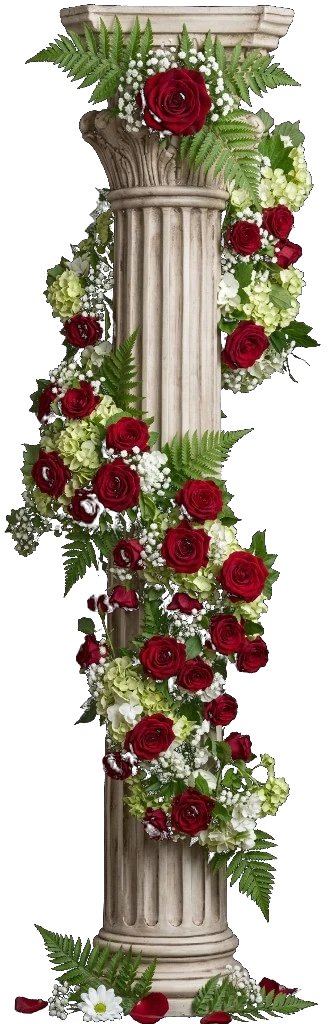
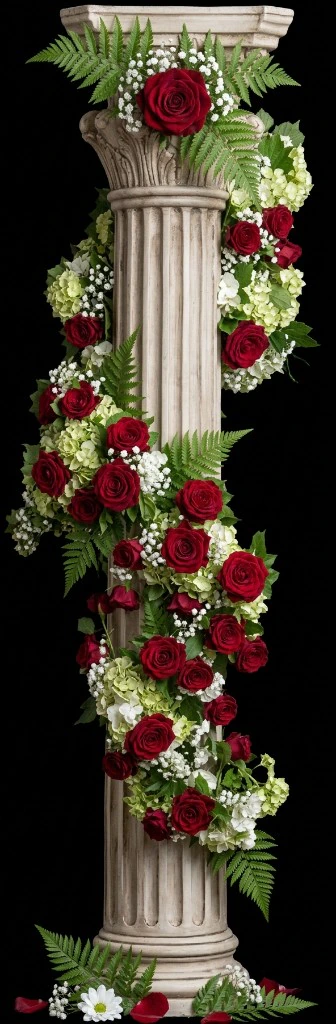
Add the closing dua scene and serve photos as smaller lossless-looking WebP.

diff --git a/src/components/envelope-experience.tsx b/src/components/envelope-experience.tsx
@@ -85,6 +85,8 @@ export function EnvelopeExperience() {
   const section4CopyRef = useRef<HTMLDivElement>(null);
   const leftSideRef = useRef<HTMLDivElement>(null);
   const rightSideRef = useRef<HTMLDivElement>(null);
+  const section5Ref = useRef<HTMLElement>(null);
+  const section5CopyRef = useRef<HTMLDivElement>(null);
   const openedRef = useRef(false);
   const [canScroll, setCanScroll] = useState(false);
 
@@ -280,6 +282,33 @@ export function EnvelopeExperience() {
           duration: 0.9,
           delay: 0.35,
           ease: "back.out(1.6)",
+        });
+        observer.disconnect();
+      },
+      { threshold: 0.3 },
+    );
+
+    observer.observe(section);
+    return () => observer.disconnect();
+  }, []);
+
+  useEffect(() => {
+    const section = section5Ref.current;
+    const copy = section5CopyRef.current;
+    if (!section || !copy) return;
+
+    const lines = copy.querySelectorAll("[data-copy]");
+    gsap.set(lines, { opacity: 0, y: 20 });
+
+    const observer = new IntersectionObserver(
+      ([entry]) => {
+        if (!entry.isIntersecting) return;
+        gsap.to(lines, {
+          opacity: 1,
+          y: 0,
+          duration: 1,
+          stagger: 0.18,
+          ease: "power2.out",
         });
         observer.disconnect();
       },
@@ -504,7 +533,7 @@ export function EnvelopeExperience() {
         className="relative mx-auto h-screen w-full max-w-md overflow-hidden"
       >
         <img
-          src="/scene-three-bg.jpg"
+          src="/scene-three-bg.webp"
           alt=""
           className="absolute inset-0 h-full w-full object-cover"
         />
@@ -547,7 +576,7 @@ export function EnvelopeExperience() {
         className="relative mx-auto h-screen w-full max-w-md overflow-hidden"
       >
         <img
-          src="/scene-two-bg.jpg"
+          src="/scene-two-bg.webp"
           alt=""
           className="absolute inset-0 h-full w-full object-cover"
         />
@@ -559,7 +588,7 @@ export function EnvelopeExperience() {
         />
         <div
           ref={leftSideRef}
-          className="pointer-events-none absolute inset-y-0 -left-16 z-20 h-full w-[42%]"
+          className="pointer-events-none absolute inset-y-0 -left-28 z-20 h-full"
         >
           <img
             src="/forth-sides.webp"
@@ -569,7 +598,7 @@ export function EnvelopeExperience() {
         </div>
         <div
           ref={rightSideRef}
-          className="pointer-events-none absolute inset-y-0 -right-16 z-20 h-full w-[42%]"
+          className="pointer-events-none absolute inset-y-0 -right-28 z-20 h-full"
         >
           <img
             src="/forth-sides.webp"
@@ -597,8 +626,8 @@ export function EnvelopeExperience() {
               >
                 In Sha Allah
               </h2>
-              <div className="mx-auto mt-5 flex w-fit flex-col gap-3">
-                <div data-copy className="flex items-start gap-2.5 text-left">
+              <div className="mx-auto mt-5 flex w-full flex-col gap-3">
+                <div data-copy className="flex items-center gap-2.5 text-left">
                   <DetailIcon>
                     <CalendarDays className="h-4 w-4" strokeWidth={1.75} />
                   </DetailIcon>
@@ -606,7 +635,7 @@ export function EnvelopeExperience() {
                     Saturday, 17 October 2026
                   </p>
                 </div>
-                <div data-copy className="flex items-start gap-2.5 text-left">
+                <div data-copy className="flex items-center gap-2.5 text-left">
                   <DetailIcon>
                     <Clock className="h-4 w-4" strokeWidth={1.75} />
                   </DetailIcon>
@@ -614,19 +643,55 @@ export function EnvelopeExperience() {
                     8:00 pm
                   </p>
                 </div>
-                <div data-copy className="flex items-start gap-2.5 text-left">
+                <div data-copy className="flex items-center gap-2.5 text-left">
                   <DetailIcon>
                     <MapPin className="h-4 w-4" strokeWidth={1.75} />
                   </DetailIcon>
                   <p className="font-sans text-[13px] font-semibold leading-snug text-maroon">
                     Empire Banquet
-                    <br />
                     Latifabad Unit 7
                   </p>
                 </div>
               </div>
             </div>
           </div>
+        </div>
+      </section>
+      <section
+        id="section-5"
+        ref={section5Ref}
+        className="relative mx-auto h-screen w-full max-w-md overflow-hidden"
+      >
+        <img
+          src="/fifth-scene-bg.webp"
+          alt=""
+          className="absolute inset-0 h-full w-full object-cover"
+        />
+        <div
+          ref={section5CopyRef}
+          className="absolute inset-x-0 top-12 z-10 flex flex-col items-center px-6"
+        >
+          <img
+            data-copy
+            src="/last-scene-dua.webp"
+            alt="Barakallahu lakuma"
+            className="w-full max-w-[340px] object-contain"
+          />
+          <p
+            data-copy
+            className="mt-3 max-w-[320px] text-center font-sans text-[12px] font-medium leading-relaxed text-maroon"
+          >
+            May Allah bless you and shower His blessings upon you and join you
+            together in goodness
+          </p>
+          <p
+            data-copy
+            dir="rtl"
+            lang="ar"
+            className="mt-2 max-w-[320px] text-center font-arabic text-[12px] leading-relaxed text-maroon"
+          >
+            بَارَكَ اللَّهُ لَكُمَا وَبَارَكَ عَلَيْكُمَا وَجَمَعَ بَيْنَكُمَا فِي خَيْرٍ
+          </p>
         </div>
       </section>
     </div>

diff --git a/scripts/optimize-images.js b/scripts/optimize-images.js
@@ -1,0 +1,159 @@
+const fs = require("fs");
+const path = require("path");
+const sharp = require("sharp");
+
+const PUBLIC = path.join(__dirname, "..", "public");
+
+function knockLightBg(data) {
+  for (let i = 0; i < data.length; i += 4) {
+    const r = data[i];
+    const g = data[i + 1];
+    const b = data[i + 2];
+    const max = Math.max(r, g, b);
+    const min = Math.min(r, g, b);
+    const sat = max - min;
+    const avg = (r + g + b) / 3;
+    const dr = r - 232;
+    const dg = g - 233;
+    const db = b - 237;
+    const dist = Math.sqrt(dr * dr + dg * dg + db * db);
+
+    if (dist < 30 && sat < 42) {
+      data[i + 3] = 0;
+    } else if (avg > 175 && sat < 58 && r < 205) {
+      const t = Math.min(1, Math.max(0, (dist - 28) / 50));
+      data[i + 3] = Math.round(data[i + 3] * t);
+    }
+  }
+}
+
+function contentBox(data, width, height) {
+  let minX = width;
+  let minY = height;
+  let maxX = 0;
+  let maxY = 0;
+
+  for (let y = 0; y < height; y++) {
+    for (let x = 0; x < width; x++) {
+      if (data[(y * width + x) * 4 + 3] >= 18) {
+        if (x < minX) minX = x;
+        if (y < minY) minY = y;
+        if (x > maxX) maxX = x;
+        if (y > maxY) maxY = y;
+      }
+    }
+  }
+
+  const pad = 8;
+  minX = Math.max(0, minX - pad);
+  minY = Math.max(0, minY - pad);
+  maxX = Math.min(width - 1, maxX + pad);
+  maxY = Math.min(height - 1, maxY + pad);
+
+  return { minX, minY, maxX, maxY, w: maxX - minX + 1, h: maxY - minY + 1 };
+}
+
+async function makeDuaWebp() {
+  const src = path.join(PUBLIC, "last scene dua.jpg");
+  const dest = path.join(PUBLIC, "last-scene-dua.webp");
+  const { data, info } = await sharp(src)
+    .ensureAlpha()
+    .raw()
+    .toBuffer({ resolveWithObject: true });
+
+  knockLightBg(data);
+  const box = contentBox(data, info.width, info.height);
+
+  await sharp(Buffer.from(data), {
+    raw: { width: info.width, height: info.height, channels: 4 },
+  })
+    .extract({
+      left: box.minX,
+      top: box.minY,
+      width: box.w,
+      height: box.h,
+    })
+    .webp({ lossless: true, effort: 6 })
+    .toFile(dest);
+
+  const meta = await sharp(dest).metadata();
+  const before = fs.statSync(src).size;
+  const after = fs.statSync(dest).size;
+  console.log(
+    `dua ${info.width}x${info.height} -> ${meta.width}x${meta.height} alpha=${meta.hasAlpha} ${before} -> ${after}`,
+  );
+}
+
+async function toWebp(srcName, destName) {
+  const src = path.join(PUBLIC, srcName);
+  const dest = path.join(PUBLIC, destName);
+  const tmp = dest + ".tmp";
+  await sharp(src)
+    .webp({ quality: 92, alphaQuality: 100, effort: 6, smartSubsample: true })
+    .toFile(tmp);
+
+  const before = fs.statSync(src).size;
+  const after = fs.statSync(tmp).size;
+  if (after < before || destName !== srcName) {
+    fs.renameSync(tmp, dest);
+    console.log(`${srcName} -> ${destName} ${before} -> ${after}`);
+  } else {
+    fs.unlinkSync(tmp);
+    console.log(`keep ${srcName} (${before} <= ${after})`);
+  }
+}
+
+async function recompressWebp(filename) {
+  const src = path.join(PUBLIC, filename);
+  const tmp = src + ".tmp";
+  const before = fs.statSync(src).size;
+  await sharp(src)
+    .webp({ quality: 92, alphaQuality: 100, effort: 6 })
+    .toFile(tmp);
+  const after = fs.statSync(tmp).size;
+  if (after < before * 0.98) {
+    fs.renameSync(tmp, src);
+    console.log(`recompress ${filename} ${before} -> ${after}`);
+  } else {
+    fs.unlinkSync(tmp);
+    console.log(`keep ${filename} ${before} (new ${after})`);
+  }
+}
+
+(async () => {
+  await makeDuaWebp();
+  await toWebp("fifth-scene-bg.jpg", "fifth-scene-bg.webp");
+  await toWebp("scene-three-bg.jpg", "scene-three-bg.webp");
+  await toWebp("scene-two-bg.jpg", "scene-two-bg.webp");
+
+  const jpgs = fs
+    .readdirSync(PUBLIC)
+    .filter((f) => /\.(jpe?g|png)$/i.test(f) && f !== "last scene dua.jpg");
+
+  for (const file of jpgs) {
+    const dest = file.replace(/\.(png|jpe?g)$/i, ".webp");
+    if (["fifth-scene-bg.jpg", "scene-three-bg.jpg", "scene-two-bg.jpg"].includes(file)) {
+      continue;
+    }
+    await toWebp(file, dest);
+  }
+
+  const usedWebp = [
+    "Bismillah.webp",
+    "fill.webp",
+    "envolpe-top.webp",
+    "envolpe-bottom.webp",
+    "flowers-2.webp",
+    "forth-top.webp",
+    "forth-sides.webp",
+    "forth-box-top.webp",
+    "sidepillars.webp",
+    "scene-two-bg.webp",
+  ];
+
+  for (const file of usedWebp) {
+    if (fs.existsSync(path.join(PUBLIC, file))) {
+      await recompressWebp(file);
+    }
+  }
+})();

diff --git a/src/app/layout.tsx b/src/app/layout.tsx
@@ -1,5 +1,5 @@
 import type { Metadata } from "next";
-import { Great_Vibes, Montserrat } from "next/font/google";
+import { Amiri, Great_Vibes, Montserrat } from "next/font/google";
 import "./globals.css";
 
 const greatVibes = Great_Vibes({
@@ -12,6 +12,12 @@ const montserrat = Montserrat({
   variable: "--font-montserrat",
   subsets: ["latin"],
   weight: ["300", "400", "500", "600"],
+});
+
+const amiri = Amiri({
+  variable: "--font-amiri",
+  subsets: ["arabic", "latin"],
+  weight: "400",
 });
 
 export const metadata: Metadata = {
@@ -27,7 +33,7 @@ export default function RootLayout({
   return (
     <html
       lang="en"
-      className={`${greatVibes.variable} ${montserrat.variable} lock-scroll h-full antialiased`}
+      className={`${greatVibes.variable} ${montserrat.variable} ${amiri.variable} lock-scroll h-full antialiased`}
     >
       <body className="lock-scroll min-h-full bg-black font-primary text-white">
         {children}

diff --git a/src/app/globals.css b/src/app/globals.css
@@ -14,6 +14,7 @@
   --color-green: var(--green);
   --font-primary: var(--font-great-vibes);
   --font-sans: var(--font-montserrat);
+  --font-arabic: var(--font-amiri);
 }
 
 html,
